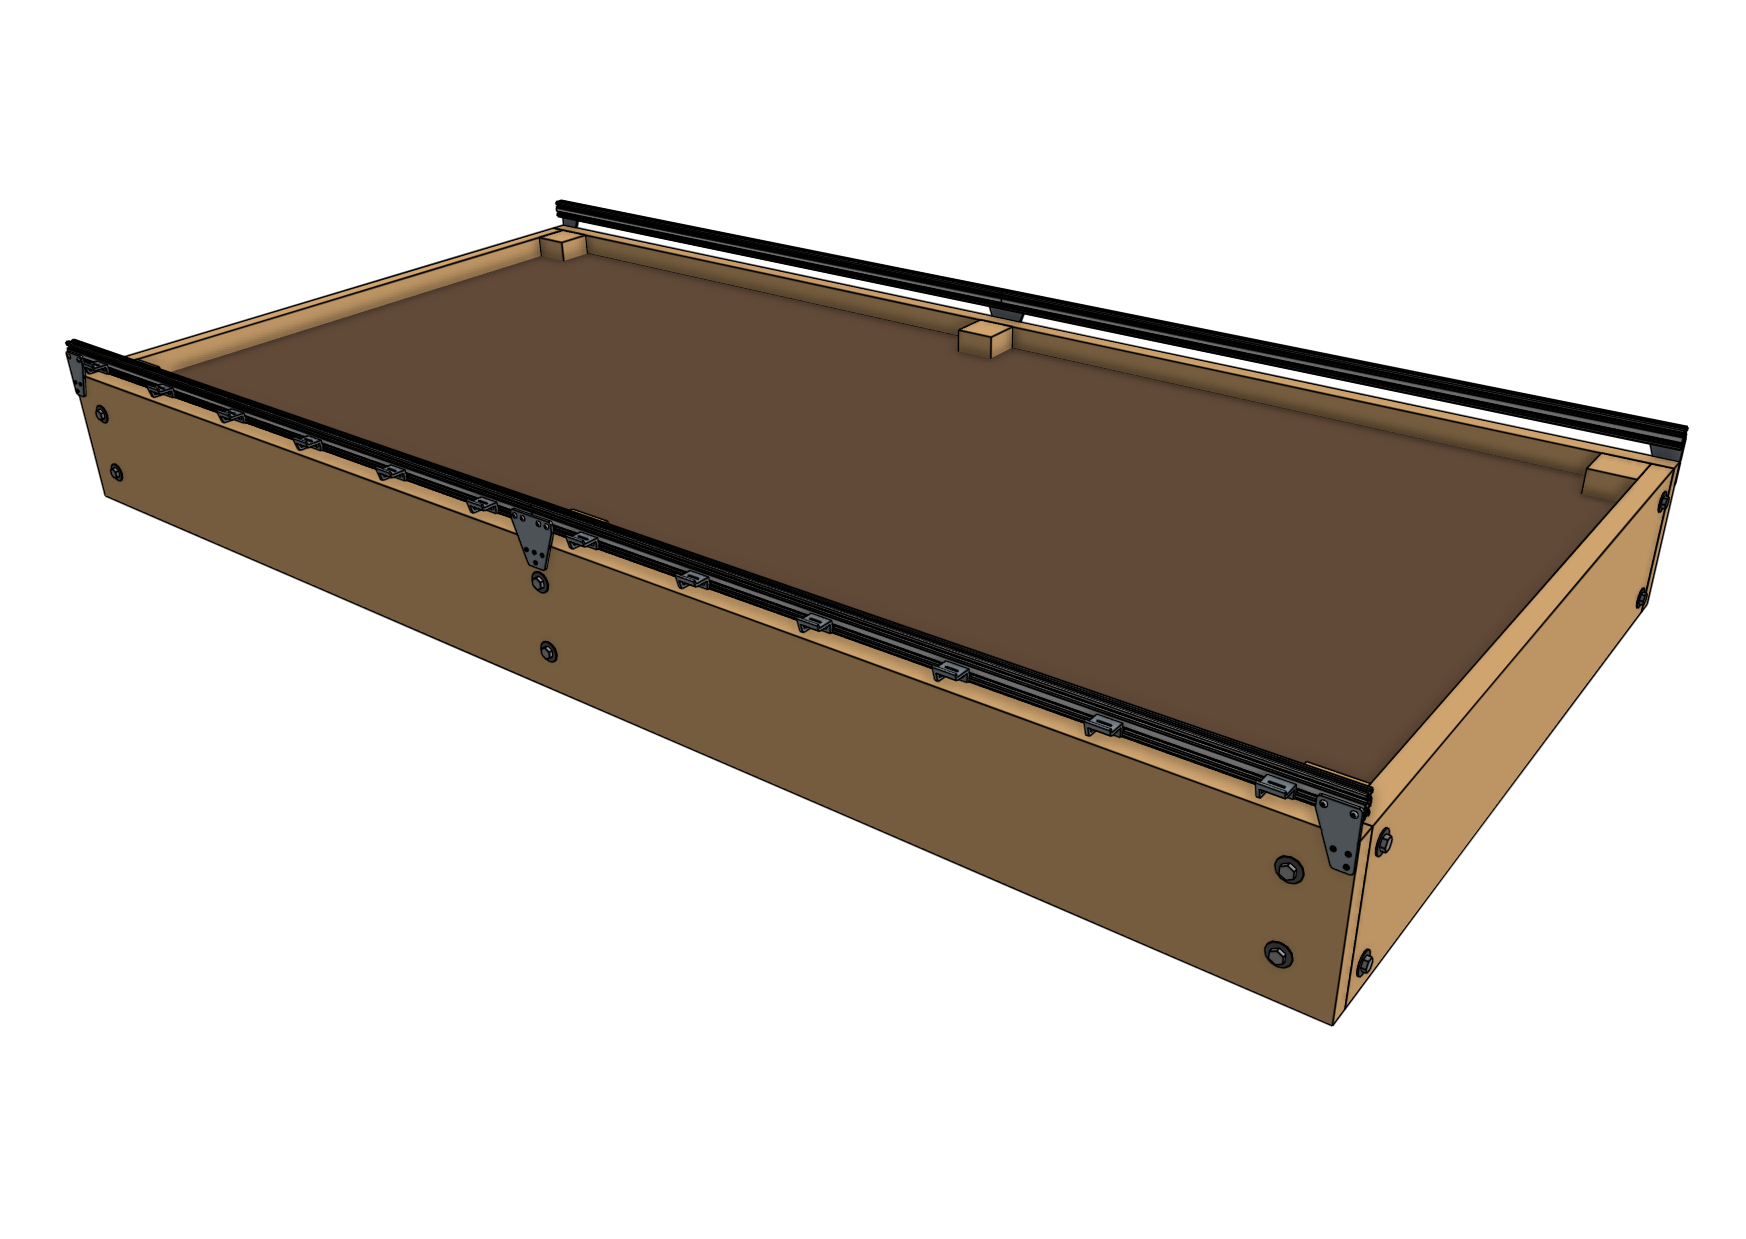
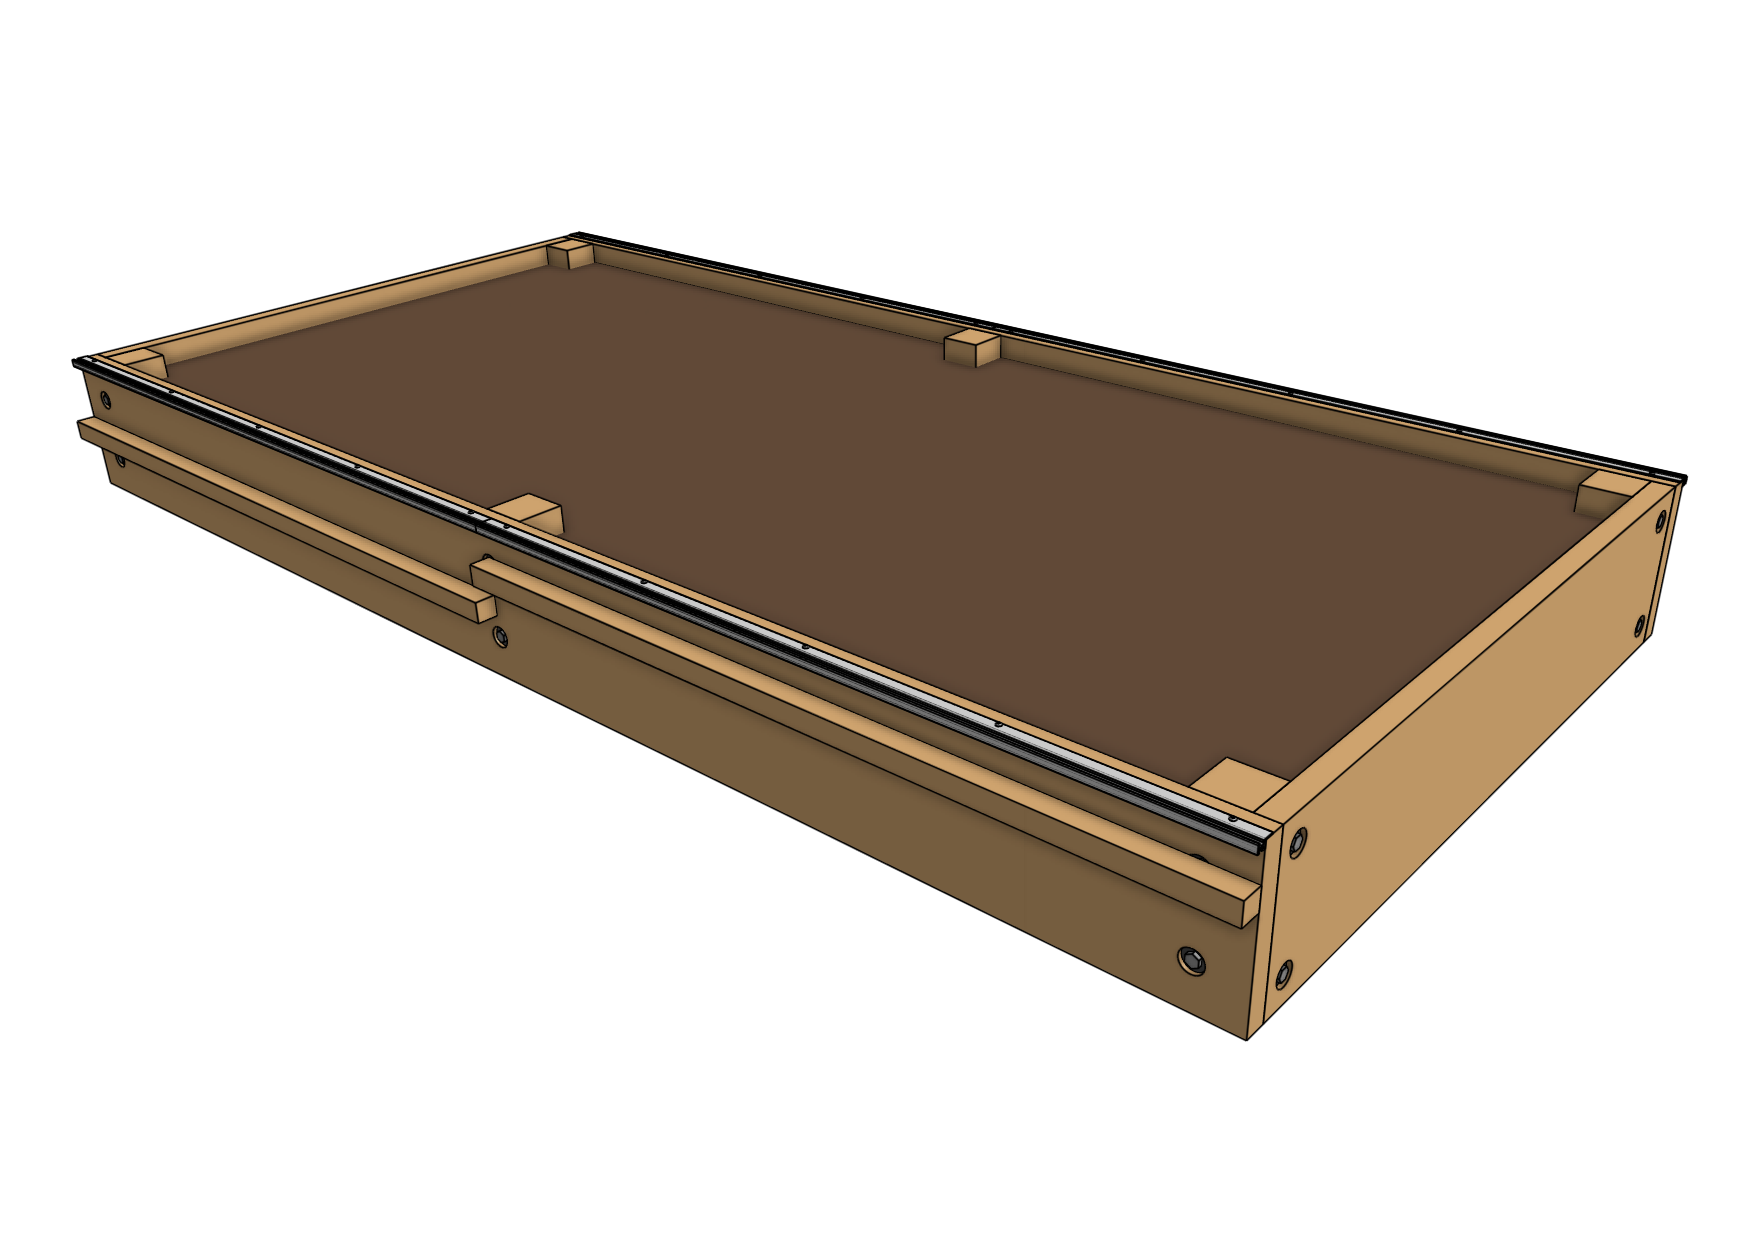
tracks and gantry images

Changed region(s): [[0.0309, 0.2454, 0.8969, 0.8588], [0.1856, 0.1533, 0.9897, 0.5827], [0.866, 0.5827, 0.8969, 0.6134]]

diff --git a/v1.7/assembly/gantry.md b/v1.7/assembly/gantry.md
@@ -5,7 +5,7 @@ description: "Documentation and assembly instructions for the FarmBot Genesis ga
 ---
 
 
-![back side of the gantry](_images/back_side_of_the_gantry.png)
+![assembled gantry](_images/assembled_gantry.png)
 
 {%
 include callout.html
@@ -48,13 +48,13 @@ Place both [[gantry main beams]] on a flat surface such as a table or patio. Usi
 
 # Step 4: Attach the cable carrier supports
 
-Using [[M5 x 10mm screws]] and [[40mm nut bars]], attach six [[60mm horizontal cable carrier supports]] to the *middle slot* of the [[gantry main beam]] extrusion. For Genesis kits, there is only one main beam extrusion, so only six supports will be used.
+Using [[M5 x 10mm screws]] and [[40mm nut bars]], attach five [[60mm horizontal cable carrier supports]] to the *middle slot* of the [[gantry main beam]] extrusion. For Genesis kits, there is only one main beam extrusion, so only five supports will be used.
 
-![Cable carrier supports on a Genesis gantry](_images/cable_carrier_supports_on_a_genesis_gantry.png)
+![Cable carrier supports on a Genesis gantry](_images/cable_carrier_supports_genesis.png)
 
-For Genesis (XL) kits, there are two main beam extrusions, so 12 supports will be used, and they should be positioned on the same side of the extrusions as the gantry joining bracket.
+For Genesis (XL) kits, there are two main beam extrusions, so 10 supports will be used, and they should be positioned on the same side of the extrusions as the [[gantry joining bracket]].
 
-![Cable carrier supports on a Genesis XL gantry](_images/cable_carrier_supports_on_a_genesis_xl_gantry.png)
+![Cable carrier supports on a Genesis XL gantry](_images/cable_carrier_supports_genesis_xl.png)
 
 # Step 5: Attach the main beam
 
@@ -65,22 +65,30 @@ title="Grab a friend"
 content="The next step requires an additional person to complete."
 %}
 
-Lift up the [[gantry main beam]] and position it onto the front of the **gantry corner brackets**. The cable carrier supports should be on the same side of the main beam as the gantry corner brackets. Secure the main beam in place using four [[60mm nut bars]] and [[M5 x 10mm screws]]. The nut bars should be positioned in the *lower two extrusion slots* of the main beam such that the top face of the main beam is 20mm *above* the top edges of the gantry corner brackets.
+Lift up the [[gantry main beam]] and position it onto the front of the **gantry corner brackets**. The cable carrier supports should be on the same side of the main beam as the gantry corner brackets. Slide a [[60mm nut bar]] into each end of the *lowest two extrusion slots* and use [[M5 x 10mm screws]] to loosely attach the main beam to the corner brackets.
+
+{%
+include callout.html
+type="success"
+content="The top face of the main beam should be 20mm *above* the top edges of the gantry corner brackets."
+%}
 
 {% include gallery.html images="
 ![Attach the gantry main beam](_images/attach_the_gantry_main_beam_1.png)
 ![Attach the gantry main beam](_images/attach_the_gantry_main_beam_2.png)
 " %}
 
-Ensure that the gantry columns are vertical and form a 90 degree angle with the main beam. Then tighten the [[M5 x 10mm screws]]. Depending on the spacing of your tracks, the gantry main beam may extend beyond the corner brackets. This is ok.
+Ensure that the gantry columns are **vertical** and form a **90 degree angle** with the main beam. Then tighten the [[M5 x 10mm screws]]. Depending on the spacing of your tracks, the gantry main beam may extend beyond the corner brackets. This is ok.
 
 ![Ensure the gantry is square](_images/ensure_the_gantry_is_square.png)
 
-_This image is from the front of FarmBot_
-
 # Step 6: Feed the belts
 
-Drop the ends of one of the **x-axis GT2 timing belts** down the two large openings of a [[gantry column]], ensuring that the belt teeth engage the [[pulley]]. Grab the ends of the **belt** at the bottom of the [[gantry column]] and feed them under the [[V-wheels]] of the [[gantry wheel plate]], then along the top of the [[track extrusions]] to the ends of the tracks. The flat side of the belt should be in contact with the V-wheels.
+Drop the ends of one of the *longer* [[belts]] down the large opening in a [[gantry column]], ensuring that the belt teeth engage the [[pulley]].
+
+![belt around gantry motor pulley](_images/belt_around_gantry_motor_pulley.png)
+
+Grab the ends of the belt at the bottom of the gantry column and feed them under the [[V-wheels]] of the [[gantry wheel plate]], then along the top of the [[track extrusions]] to the ends of the tracks. The flat side of the belt should be in contact with the V-wheels.
 
 {%
 include callout.html
@@ -89,33 +97,36 @@ title="Avoid twists"
 content="When dropping the belt ends through the gantry column and feeding them along the tracks, ensure that there are no twists in the belt."
 %}
 
-{% include gallery.html images="
-![belt around gantry motor pulley](_images/belt_around_gantry_motor_pulley.png)
 ![belt fed through gantry wheels](_images/belt_fed_through_gantry_wheels.png)
-" %}
 
 # Step 7: Secure the belts
 
-Secure one end of the belt to the front end of the tracks by using a [[belt clip]], [[belt sleeve]], [[20mm nut bar]], and two [[M5 x 10mm screws]]. The belt must be wrapped through the clip as outlined in the [belt installation guide](../../extras/reference/belt-installation.md). Repeat for the other end of the belt on the other end of the tracks. Then repeat for the second x-axis belt on the other side of the FarmBot. Trim or coil any extra belt, if desired.
+Secure one end of the belt to the tracks by using a [[belt clip]], [[belt sleeve]], [[20mm nut bar]], and two [[M5 x 10mm screws]]. The belt must be wrapped through the clip as outlined in the [belt installation guide](../extras/reference/belt-installation.md), with the tab of the belt clip extending over the outside of the bed. Repeat for the other end of the belt on the other end of the tracks.
+
+{%
+include callout.html
+type="scissors"
+content="Trim any extra belt length if desired."
+%}
 
 {% include gallery.html images="
 ![x-axis belt secured](_images/x-axis_belt_secured.png)
 ![x-axis belt both ends secured](_images/x-axis_belt_both_ends_secured.png)
 " %}
 
+Repeat steps 6 and 7 for the second x-axis belt on the other side of the FarmBot.
+
 # Step 8: Equalize the gantry
 
 {%
 include callout.html
 type="info"
-content="An **equalized gantry** is one that is exactly _perpendicular_ to the **tracks**.
-
-A crooked or torqued gantry can cause creaking, extra wear on the v-wheels, and introduce a high amount of friction into the system. It also just looks bad."
+content="An **equalized gantry** is one that is exactly _perpendicular_ to the **tracks**. If the gantry is not equalized, it can cause creaking, extra wear on the V-wheels, and stalling when FarmBot moves along the tracks."
 %}
 
-To equalize the gantry, first ensure that the x-axis motors are unpowered. For first time installation this will always be the case because we haven't yet added the wires or electronics! Then gently push or pull on the gantry **from the middle of the gantry main beam** such that it moves slowly along the tracks about 30cm. This process will remove any torque on the gantry, and ensure it is not crooked. If you push or pull the gantry from one of the gantry columns, or anywhere that is not the middle of the main beam, then you will torque the gantry and make it crooked. Don't do that.
+To equalize the gantry, first ensure that the x-axis motors are unpowered. For first time installation this will always be the case. Then gently push or pull on the gantry **from the middle of the gantry main beam** such that it moves slowly along the tracks about 30cm. This process will remove any torque on the gantry, and ensure it is not crooked.
 
-If you were equalizing the gantry as part of routine maintenance, remember to <span class="fb-button fb-yellow">FIND HOME X</span> after equalization.
+If you were equalizing the gantry as part of routine maintenance, remember to <span class="fb-button fb-yellow">FIND HOME X</span> after equalization. Otherwise, proceed with the assembly process.
 
 
 # What's next?

diff --git a/v1.7/assembly/tracks.md b/v1.7/assembly/tracks.md
@@ -53,7 +53,9 @@ Position the next [[track extrusion]] on top of the supporting infrastructure an
 
 ![Mount the second track extrusion](_images/second_track_extrusion.png)
 
-Then secure the two extrusion ends together by tightening the [[M5 x 4mm setscrew]].
+Then secure the two extrusion ends together with a second [[M5 x 4mm setscrew]] in the nut bar.
+
+![Secure nut bar](_images/secure_nut_bar.png)
 
 {%
 include callout.html
@@ -85,14 +87,20 @@ Repeat steps 2 through 5 for the track on the other side of the bed.
 include callout.html
 type="warning"
 title="Parallel or bust"
-content="It is critical that the distance between the two tracks is consistent. If it is not, there will be harmful forces placed on the gantry and tracks as the gantry moves across the non-parallel tracks.
+content='It is critical that the two tracks are **parallel** throughout the full length of the bed. Measure the distance between the two tracks at various locations along the tracks to ensure the distance is consistent. Use shims or other spacers to better align the tracks in case your supporting infrastructure is not perfect.
 
-You can use shims or other spacers to better align the tracks in case your supporting infrastructure is not perfect."
+If the tracks deviate by more than about 1cm (0.5"), your FarmBot will have trouble moving throughout the full length of the tracks.'
 %}
 
 # Step 7: Sand away bumps
 
-If needed, use **150 grit sand paper** to sand away any bumps on the diagonal surfaces of the **extrusions** that the FarmBot wheels ride upon. This will ease the movements of the FarmBot and improve longevity. Make sure that both the upper surfaces and lower surfaces are smooth to the touch and that there are no bumps or uneven edges in the transition from one extrusion to another.
+If needed, use **150 grit sand paper** to sand away any bumps on the **diagonal surfaces** of the extrusions that the FarmBot wheels ride upon. This will ease the movements of the FarmBot and improve longevity.
+
+{%
+include callout.html
+type="success"
+content="Make sure both the **upper** and **lower diagonal surfaces** are smooth to the touch and that there are no bumps or uneven edges in the transition from one extrusion to another."
+%}
 
 ![sand track joints to remove bumps](_images/sanding_tracks.png)
 

diff --git a/v1.7/extras/reference/belt-installation.md b/v1.7/extras/reference/belt-installation.md
@@ -5,22 +5,25 @@ description: "Secure the ends of your belts"
 ---
 
 # Step 1: Slide on a belt sleeve
-Slide a [[belt sleeve]] onto the **belt**.
+
+Slide a [[belt sleeve]] onto the [[belt]].
 
 ![belt sleeve on bel](_images/belt_sleeve_on_bel.png)
 
 # Step 2: Route the belt through the clip
-Route the **belt** down through the slot in the [[belt clip]] and then wrap the belt back under itself. The teeth from the short end of the belt should engage with the teeth on the long end.
+
+Route the [[belt]] down through the slot in the [[belt clip]] and then wrap the belt back under itself. The teeth from the short end of the belt should engage with the teeth on the long end.
 
 ![belt routed through clip](_images/belt_routed_through_clip.png)
 
 # Step 3: Secure the belt with the sleeve
+
 Slide the [[belt sleeve]] over both ends of the belt. This may take a small bit of force and some wiggling.
 
 ![belt secured with sleeve](_images/belt_secured_with_sleeve.png)
 
 # Step 4: Mount the clip
-Mount the clip to the end of an **extrusion** with a [[20mm nut bar]] and [[M5 x 10mm screws]].
+
+Mount the clip to the end of an **extrusion** with a [[20mm nut bar]] and two [[M5 x 10mm screws]].
 
 ![mounted belt clip](_images/mounted_belt_clip.png)
-

diff --git a/v1.7/assembly/intro.md b/v1.7/assembly/intro.md
@@ -1,7 +1,7 @@
 ---
 title: "Intro to FarmBot Genesis"
 slug: "intro"
-description: "100% open-source, DIY, highly customizable FarmBot. [Order yours here!](http://buy.farm.bot/)"
+description: "100% open-source, highly customizable FarmBot. [Order yours here!](http://buy.farm.bot/)"
 redirect_from: /docs/v1.7/
 ---
 
